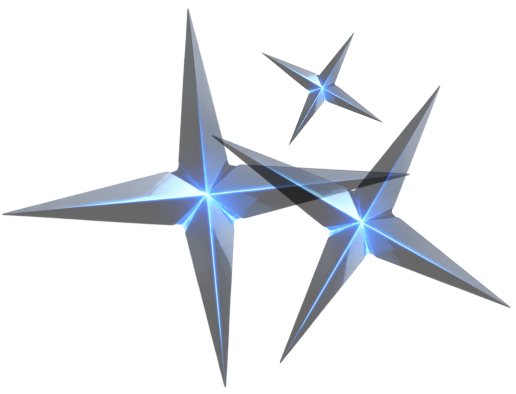
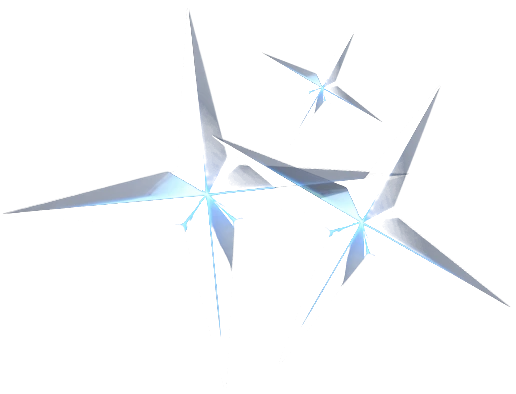
Align cart/bonus PNG size with referrals and clear bonus art bg.
Knock black out of bonus-stars, match empty-state art to the referral scale, and restyle mobile header/catalog simply.

diff --git a/frontend/theme.css b/frontend/theme.css
@@ -1338,7 +1338,6 @@ body:after,
 .case-stage,
 .desktop-bonus-animation,
 .m-bottom-nav,
-.m-product-card,
 .m-route-bonus:before,
 .m-route-opening:before{
   background-image:none!important;
@@ -3638,11 +3637,12 @@ body[data-route="mix"] .m-hero{
   }
   .me-empty>img{
     display:block!important;
-    width:min(12.5rem,68vw)!important;
-    height:auto!important;
-    max-height:10.5rem!important;
-    margin:0 auto .75rem!important;
+    width:min(18rem,86vw)!important;
+    height:18rem!important;
+    max-height:none!important;
+    margin:.4rem auto 1rem!important;
     object-fit:contain!important;
+    object-position:center!important;
     background:transparent!important;
     filter:none!important;
   }
@@ -3879,9 +3879,31 @@ body[data-route="mix"] .m-hero{
   .referral-guest{
     padding:0 var(--m-gutter,.9rem) 5.5rem!important;
   }
-  .referral-guest-art>img{
-    max-height:11.5rem!important;
-    margin:0 auto .75rem!important;
+  .referral-guest-art>img,
+  .me-empty>img,
+  .mb-star-art,
+  .mb-case-intro .mb-star-art,
+  .case-stage>img{
+    width:min(18rem,86vw)!important;
+    height:18rem!important;
+    max-height:none!important;
+    max-width:86%!important;
+    margin:.4rem auto 1rem!important;
+    object-fit:contain!important;
+    object-position:center!important;
+    background:transparent!important;
+    mix-blend-mode:normal!important;
+    mask-image:none!important;
+    -webkit-mask-image:none!important;
+    filter:none!important;
+  }
+  .mb-case-intro .mb-star-art{
+    position:absolute!important;
+    left:50%!important;
+    top:50%!important;
+    margin:0!important;
+    transform:translate(-50%,-58%)!important;
+    height:11.5rem!important;
   }
   .referral-guest-content{
     gap:.65rem!important;
@@ -3889,5 +3911,115 @@ body[data-route="mix"] .m-hero{
   .referral-guest-benefits{
     margin-top:1rem!important;
     gap:.65rem!important;
+  }
+
+  /* Simple mobile header + catalog (artboard chrome) */
+  .m-topbar,
+  .m-topbar.m-topbar-compact{
+    display:flex!important;
+    align-items:center!important;
+    height:54px!important;
+    margin:13px 13px 0!important;
+    padding:0 20px!important;
+    gap:14px!important;
+    border:1px solid #477aaf!important;
+    border-top-color:#b9d4e9!important;
+    border-radius:19px!important;
+    background:radial-gradient(ellipse at 100% 0,#14366b99,transparent 55%),linear-gradient(130deg,#081a35,#03070a 75%)!important;
+    box-shadow:inset 0 2px 4px #7e9ebc55!important;
+  }
+  .m-logo{width:72px!important;margin-right:auto!important}
+  .m-logo img{width:100%!important;height:30px!important;object-fit:contain!important;filter:none!important}
+  .m-top-link{
+    display:flex!important;
+    align-items:center!important;
+    gap:5px!important;
+    font-size:10px!important;
+    color:#bfc1c5!important;
+    background:none!important;
+    border:0!important;
+    box-shadow:none!important;
+  }
+  .m-points{
+    height:32px!important;
+    min-width:54px!important;
+    border:1px solid #416083!important;
+    border-radius:12px!important;
+    background:radial-gradient(ellipse at 80% 100%,#132d5c,#020b1b)!important;
+    box-shadow:inset 0 1px 3px #a8bace55!important;
+    color:#d5dcea!important;
+  }
+  .m-product-list{
+    display:grid!important;
+    gap:10px!important;
+    margin:0 15px!important;
+  }
+  .m-product-card{
+    position:relative!important;
+    min-height:113px!important;
+    padding:15px 17px!important;
+    border:1px solid #124b83!important;
+    border-radius:15px!important;
+    background:radial-gradient(ellipse at 65% 0,#082c6555,transparent 55%),linear-gradient(130deg,#081016 0,#060707 50%,#0a1017)!important;
+    overflow:hidden!important;
+  }
+  .m-product-card.has-badge{min-height:144px!important}
+  .m-product-card h3{
+    font-size:12px!important;
+    font-weight:600!important;
+    max-width:65%!important;
+    margin:0!important;
+    color:#c0c0c3!important;
+    text-transform:none!important;
+  }
+  .m-choose{
+    position:absolute!important;
+    left:17px!important;
+    bottom:18px!important;
+    min-height:29px!important;
+    min-width:112px!important;
+    padding:6px 10px!important;
+    border:1px solid #5f7e9a!important;
+    border-top-color:#ccd3dd!important;
+    border-radius:10px!important;
+    background:linear-gradient(135deg,#1b334c,#050e1b 60%,#102445)!important;
+    box-shadow:inset 0 2px 3px #b9c5d473!important;
+    color:#ccd5e5!important;
+    font-size:10px!important;
+    font-weight:600!important;
+  }
+  .m-card-image{
+    position:absolute!important;
+    right:-1px!important;
+    bottom:0!important;
+    height:103px!important;
+    width:50px!important;
+    object-fit:contain!important;
+    background:transparent!important;
+  }
+  .m-card-price{
+    position:absolute!important;
+    right:56px!important;
+    bottom:13px!important;
+    font-size:11px!important;
+    font-weight:600!important;
+  }
+  .m-primary,
+  .m-secondary,
+  a.m-primary,
+  button.m-primary{
+    border-radius:17px!important;
+    border:1px solid #1679d2!important;
+    border-top-color:#c5dbef!important;
+    background:linear-gradient(115deg,#0b3774,#0b2b61)!important;
+    color:#ccd5e5!important;
+    box-shadow:inset 0 2px 4px #a6cbed88!important;
+    min-height:43px!important;
+  }
+  .m-primary:hover,
+  a.m-primary:hover,
+  button.m-primary:hover{
+    background:linear-gradient(115deg,#0b3774,#0b2b61)!important;
+    color:#fff!important;
   }
 }

diff --git a/frontend/styles.css b/frontend/styles.css
@@ -1484,10 +1484,12 @@ h3 {
   position: relative;
 }
 .case-stage img {
-  width: 30rem;
-  height: 16rem;
+  width: min(28rem, 72%);
+  height: 18rem;
   object-fit: contain;
-  mix-blend-mode: screen;
+  object-position: center;
+  mix-blend-mode: normal;
+  background: transparent;
 }
 .case-stage button {
   width: 24rem;
@@ -5418,18 +5420,16 @@ h3 {
   }
   .mb-star-art {
     display: block;
-    width: 228px;
-    max-width: 90%;
-    height: 126px;
+    width: min(18rem, 86vw);
+    max-width: 86%;
+    height: 18rem;
     object-fit: contain;
-    mix-blend-mode: screen;
-    margin: 16px auto 0;
-    mask-image: radial-gradient(ellipse 60% 65%, #000 68%, transparent 100%);
-    -webkit-mask-image: radial-gradient(
-      ellipse 60% 65%,
-      #000 68%,
-      transparent 100%
-    );
+    object-position: center;
+    mix-blend-mode: normal;
+    margin: 0.4rem auto 0;
+    background: transparent;
+    mask-image: none;
+    -webkit-mask-image: none;
   }
   .mb-open-button {
     position: absolute;
@@ -13767,7 +13767,7 @@ body:after {
   }
   .mb-case-intro {
     position: relative;
-    height: 206px;
+    height: 240px;
     isolation: isolate;
     overflow: hidden;
   }
@@ -13783,14 +13783,16 @@ body:after {
   .mb-case-intro .mb-star-art {
     position: absolute;
     left: 50%;
-    top: 16px;
-    transform: translateX(-50%);
-    width: 220px;
-    height: 152px;
-    max-width: 82%;
+    top: 50%;
+    transform: translate(-50%, -58%);
+    width: min(18rem, 86%);
+    height: 11.5rem;
+    max-width: 86%;
     margin: 0;
     object-fit: contain;
+    object-position: center;
     mix-blend-mode: normal;
+    background: transparent;
     mask-image: none;
     -webkit-mask-image: none;
     z-index: 1;
@@ -15047,11 +15049,12 @@ body:after {
   }
   .me-empty > img {
     display: block;
-    height: 118px;
-    width: 155px;
-    max-width: 85%;
+    width: min(18rem, 86vw);
+    height: 18rem;
+    max-width: 86%;
     object-fit: contain;
-    margin: 0 auto 10px;
+    object-position: center;
+    margin: 0.4rem auto 1rem;
     background: transparent;
     filter: none;
   }
@@ -15542,20 +15545,22 @@ select {
     position: absolute;
     left: 0;
     right: 0;
-    top: 1.85rem;
+    top: 2.4rem;
     margin-inline: auto;
     transform: none;
-    width: 17rem;
+    width: 18rem;
     height: 11.5rem;
-    overflow: hidden;
+    overflow: visible;
     z-index: 1;
+    background: transparent;
   }
   .dec-art > img {
     display: block;
     width: 100%;
     height: 13rem;
     object-fit: contain;
-    object-position: center top;
+    object-position: center;
+    background: transparent;
   }
   .dec-visual .bonus-case-glow {
     z-index: 0;

diff --git a/frontend/index.html b/frontend/index.html
@@ -9,14 +9,14 @@
 <meta name="description" content="Smoke Island - katalog, wybór wariantów, koszyk i bonusy.">
 <link rel="preconnect" href="https://fonts.googleapis.com">
 <link rel="preconnect" href="https://fonts.gstatic.com" crossorigin>
-<link rel="preload" href="styles.css?v=20261116-styles-rollback" as="style">
-<link rel="stylesheet" href="styles.css?v=20261116-styles-rollback">
-<link rel="stylesheet" href="theme.css?v=20261116-styles-rollback">
+<link rel="preload" href="styles.css?v=20261116-png-align" as="style">
+<link rel="stylesheet" href="styles.css?v=20261116-png-align">
+<link rel="stylesheet" href="theme.css?v=20261116-png-align">
 <script src="https://telegram.org/js/telegram-web-app.js?64" defer></script>
 <title>Smoke Island</title>
 <script src="config.js"></script>
 <!-- Built from frontend/js/* via: node scripts/build-frontend.mjs -->
-<script src="app.js?v=20261116-styles-rollback" defer></script>
+<script src="app.js?v=20261116-png-align" defer></script>
 </head>
 <body>
 <a class="skip-link" href="#app">Przejdź do treści</a>
